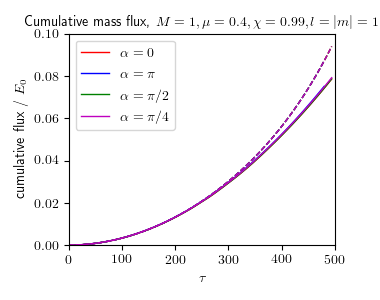
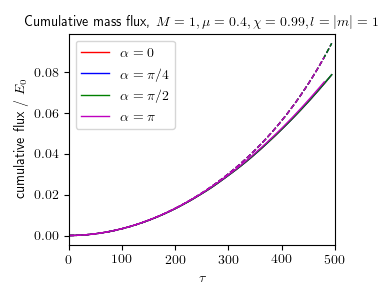
new plots

diff --git a/Analysis/scripts/plot_mass_flux_compare_Al.py b/Analysis/scripts/plot_mass_flux_compare_Al.py
@@ -203,9 +203,9 @@ run0018_l1_m1_a0.99_Al0.25_mu0.4_M1_IsoKerr"""
 #add_data_dir(15, 1, 1, "0.7", "0.4", "0.5", 64, 64, "_theta_max0.99")
 
 add_data_dir(6, 1, 1, "0.99", "0.4", "0")
+add_data_dir(18, 1, 1, "0.99", "0.4", "0.25", 64, 64)
+add_data_dir(17, 1, 1, "0.99", "0.4", "0.5", 64, 64) 
 add_data_dir(16, 1, -1, "0.99", "0.4", "0" , Nphi, Ntheta, 2048, 256)
-add_data_dir(17, 1, 1, "0.99", "0.4", "0.5", 264, 264) 
-add_data_dir(18, 1, 1, "0.99", "0.4", "0.25", 264, 264)
 
 def alpha_text(m, alpha):
         if m == 1:
@@ -253,7 +253,7 @@ def plot_graph():
 		aflux=(10**(4*diff_from_alpha0))*(dd.analytic_outer_flux[:ds_length]-dd0.analytic_outer_flux[:ds_length]*diff_from_alpha0)
 		if log_y:		
 			ax1.plot(tau,np.log10(np.abs(flux)),colours[i]+"-", label=label_, linewidth=1)
-			ax1.plot(tau,np.log10(np.abs(aflux)),colours[i]+"--", label="_4th order t$\\mu$/r analytic flux into R={:.1f} ".format(R_max)+label_, linewidth=1)
+		#	ax1.plot(tau,np.log10(np.abs(aflux)),colours[i]+"--", label="_4th order t$\\mu$/r analytic flux into R={:.1f} ".format(R_max)+label_, linewidth=1)
 		else:
 			ax1.plot(tau,flux,colours[i]+"-", label=label_, linewidth=1)
 			ax1.plot(tau,aflux,colours[i]+"--", label="_4th order t$\\mu$/r analytic flux into R={:.1f} ".format(R_max)+label_, linewidth=1)
@@ -273,7 +273,7 @@ def plot_graph():
 		ax1.set_xlim((0, 400))
 	else:
 		ax1.set_xlim((0, 500))
-		ax1.set_ylim((0.0, 0.1))
+		#ax1.set_ylim((0.0, 0.1))
 	if cumulative:
 		if diff_from_alpha0:
 			if log_y:
